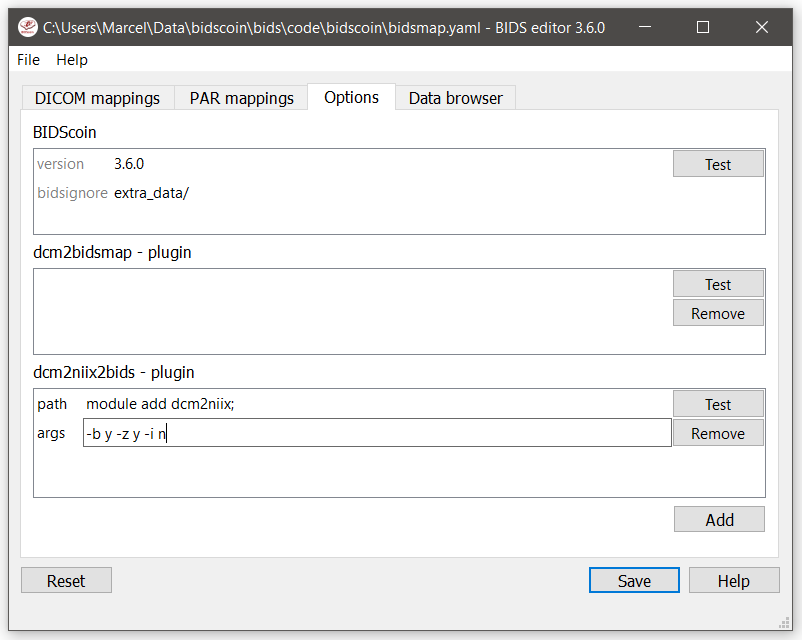
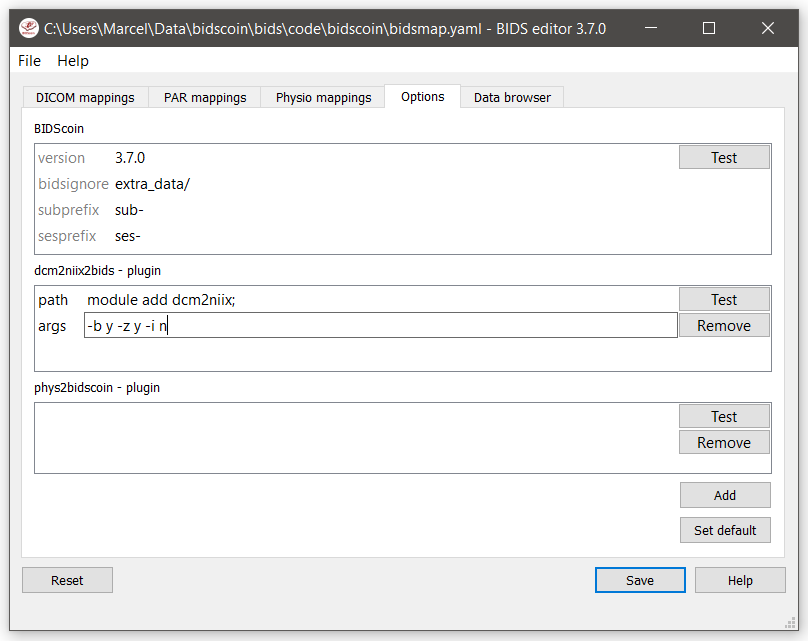
* Added multi-echo defacing * Updated documentation

diff --git a/bidscoin/medeface.py b/bidscoin/medeface.py
@@ -1,10 +1,11 @@
 #!/usr/bin/env python3
 """
-A wrapper around the 'pydeface' defacing tool (https://github.com/poldracklab/pydeface).
+A wrapper around the 'pydeface' defacing tool (https://github.com/poldracklab/pydeface) that computes
+a defacing mask on an echo-combined image and then applies it to each individual echo-image.
 
 This wrapper is fully BIDS-aware (a 'bidsapp') and writes BIDS compliant output
 
-For multi-echo data see `medeface`
+For single-echo data see `deface`
 """
 
 import os
@@ -15,6 +16,8 @@ import logging
 import pandas as pd
 import pydeface.utils as pdu
 import drmaa
+import nibabel as nib
+import numpy as np
 from pathlib import Path
 try:
     from bidscoin import bidscoin, bids
@@ -22,11 +25,11 @@ except ImportError:
     import bidscoin, bids             # This should work if bidscoin was not pip-installed
 
 
-def deface(bidsdir: str, pattern: str, subjects: list, output: str, cluster: bool, nativespec: str, kwargs: dict):
+def medeface(bidsdir: str, pattern: str, subjects: list, output: str, cluster: bool, nativespec: str, kwargs: dict):
     """
 
-    :param bidsdir:     The bids-directory with the subject data
-    :param pattern:     Globlike search pattern (relative to the subject/session folder) to select the images that need to be defaced, e.g. 'anat/*_T1w*'
+    :param bidsdir:     The bids-directory with the (multi-echo) subject data
+    :param pattern:     Globlike search pattern (relative to the subject/session folder) to select the echo-images that need to be defaced, e.g. 'anat/*_T1w*'
     :param subjects:    List of sub-# identifiers to be processed (the sub- prefix can be left out). If not specified then all sub-folders in the bidsfolder will be processed
     :param output:      Determines where the defaced images are saved. It can be the name of a BIDS datatype folder, such as 'anat', or of the derivatives folder, i.e. 'derivatives'. If output is left empty then the original images are replaced by the defaced images
     :param cluster:     Flag to submit the deface jobs to the high-performance compute (HPC) cluster
@@ -41,8 +44,8 @@ def deface(bidsdir: str, pattern: str, subjects: list, output: str, cluster: boo
     # Start logging
     bidscoin.setup_logging(bidsdir/'code'/'bidscoin'/'deface.log')
     LOGGER.info('')
-    LOGGER.info('------------ START deface ------------')
-    LOGGER.info(f">>> deface bidsfolder={bidsdir} pattern={pattern} subjects={subjects} output={output}"
+    LOGGER.info('------------ START multi-echo deface ----------')
+    LOGGER.info(f">>> medeface bidsfolder={bidsdir} pattern={pattern} subjects={subjects} output={output}"
                 f" cluster={cluster} nativespec={nativespec} {kwargs}")
 
     # Get the list of subjects
@@ -54,7 +57,7 @@ def deface(bidsdir: str, pattern: str, subjects: list, output: str, cluster: boo
         subjects = ['sub-' + subject.replace('^sub-', '') for subject in subjects]              # Make sure there is a "sub-" prefix
         subjects = [bidsdir/subject for subject in subjects if (bidsdir/subject).is_dir()]
 
-    # Prepare the HPC job submission
+    # Prepare the HPC pydeface job submission
     with drmaa.Session() as pbatch:
         if cluster:
             jt                     = pbatch.createJobTemplate()
@@ -63,7 +66,7 @@ def deface(bidsdir: str, pattern: str, subjects: list, output: str, cluster: boo
             jt.nativeSpecification = nativespec
             jt.joinFiles           = True
 
-        # Loop over bids subject/session-directories
+        # Loop over bids subject/session-directories to first get all the echo-combined deface masks
         for n, subject in enumerate(subjects, 1):
 
             sessions = bidscoin.lsdirs(subject, 'ses-*')
@@ -77,34 +80,73 @@ def deface(bidsdir: str, pattern: str, subjects: list, output: str, cluster: boo
                 datasource     = bids.DataSource(session/'dum.my')
                 sub_id, ses_id = datasource.subid_sesid()
 
-                # Search for images that need to be defaced
-                for match in sorted([match for match in session.glob(pattern) if '.nii' in match.suffixes]):
+                # Read the echo-images that need to be defaced
+                echofiles = sorted([match for match in session.glob(pattern) if '.nii' in match.suffixes])
+                LOGGER.info(f'Loading ME-files: {echofiles}')
+                echos = [nib.load(echofile) for echofile in echofiles]
+
+                # Create a temporary echo-combined image
+                tmpfile  = session/'tmp_echocombined_deface.nii'
+                combined = nib.Nifti1Image(np.average([echo.get_fdata() for echo in echos]), echos[0].affine, echos[0].header)
+                combined.to_filename(tmpfile)
+
+                # Deface the echo-combined image
+                LOGGER.info(f"Creating a deface-mask from the echo-combined image: {tmpfile}")
+                if cluster:
+                    jt.args = [str(tmpfile), '--outfile', str(tmpfile), '--force'] + [item for pair in [[f"--{key}", val] for key,val in kwargs.items()] for item in pair]
+                    jt.jobName = f"pydeface_{sub_id}_{ses_id}"
+                    jobid = pbatch.runJob(jt)
+                    LOGGER.info(f"Your deface job has been submitted with ID: {jobid}")
+                else:
+                    pdu.deface_image(str(tmpfile), str(tmpfile), force=True, forcecleanup=True, **kwargs)
+
+        if cluster:
+            LOGGER.info('Waiting for the deface jobs to finish...')
+            pbatch.synchronize(jobIds=[pbatch.JOB_IDS_SESSION_ALL], timeout=pbatch.TIMEOUT_WAIT_FOREVER,
+                               dispose=True)
+            pbatch.deleteJobTemplate(jt)
+
+        # Loop again over bids subject/session-directories to apply the deface masks and write meta-data
+        for n, subject in enumerate(subjects, 1):
+
+            sessions = bidscoin.lsdirs(subject, 'ses-*')
+            if not sessions:
+                sessions = [subject]
+            for session in sessions:
+
+                LOGGER.info('--------------------------------------')
+                LOGGER.info(f"Processing ({n}/{len(subjects)}): {session}")
+
+                datasource     = bids.DataSource(session/'dum.my')
+                sub_id, ses_id = datasource.subid_sesid()
+
+                # Read the temporary defacemask and the echo-images that need to be defaced
+                tmpfile    = session/'tmp_echocombined_deface.nii'
+                defacemask = nib.load(tmpfile).get_fdata() != 0     # The original defacemask is saved in a temporary folder so it may be deleted -> use the defaced image to infer the mask
+                tmpfile.unlink()
+                for echofile in sorted([match for match in session.glob(pattern) if '.nii' in match.suffixes]):
 
                     # Construct the output filename and relative path name (used in BIDS)
-                    match_rel = match.relative_to(session).as_posix()
+                    echofile_rel = echofile.relative_to(session).as_posix()
                     if not output:
-                        outputfile     = match
-                        outputfile_rel = match_rel
+                        outputfile     = echofile
+                        outputfile_rel = echofile_rel
                     elif output == 'derivatives':
-                        outputfile     = bidsdir/'derivatives'/'deface'/sub_id/ses_id/match.parent.name/match.name
+                        outputfile     = bidsdir/'derivatives'/'deface'/sub_id/ses_id/echofile.parent.name/echofile.name
                         outputfile_rel = outputfile.relative_to(bidsdir).as_posix()
                     else:
-                        outputfile     = session/output/match.name
+                        outputfile     = session/output/echofile.name
                         outputfile_rel = outputfile.relative_to(session).as_posix()
                     outputfile.parent.mkdir(parents=True, exist_ok=True)
 
-                    # Deface the image
-                    LOGGER.info(f"Defacing: {match_rel} -> {outputfile_rel}")
-                    if cluster:
-                        jt.args    = [str(match), '--outfile', str(outputfile), '--force'] + [item for pair in [[f"--{key}",val] for key,val in kwargs.items()] for item in pair]
-                        jt.jobName = f"pydeface_{sub_id}_{ses_id}"
-                        jobid      = pbatch.runJob(jt)
-                        LOGGER.info(f"Your deface job has been submitted with ID: {jobid}")
-                    else:
-                        pdu.deface_image(str(match), str(outputfile), force=True, forcecleanup=True, **kwargs)
+                    # Apply the defacemask
+                    LOGGER.info(f'Apply deface mask on: {echofile} -> {outputfile_rel}')
+                    echoimg   = nib.load(echofile)
+                    outputimg = nib.Nifti1Image(echoimg.get_fdata() * defacemask, echoimg.affine, echoimg.header)
+                    outputimg.to_filename(outputfile)
 
                     # Overwrite or add a json sidecar-file
-                    inputjson  = match.with_suffix('').with_suffix('.json')
+                    inputjson  = echofile.with_suffix('').with_suffix('.json')
                     outputjson = outputfile.with_suffix('').with_suffix('.json')
                     if inputjson.is_file() and inputjson != outputjson:
                         if outputjson.is_file():
@@ -129,7 +171,7 @@ def deface(bidsdir: str, pattern: str, subjects: list, output: str, cluster: boo
                             intendedfor = fmap_data['IntendedFor']
                             if type(intendedfor)==str:
                                 intendedfor = [intendedfor]
-                            if match_rel in intendedfor:
+                            if echofile_rel in intendedfor:
                                 LOGGER.info(f"Updating 'IntendedFor' to {outputfile_rel} in {fmap}")
                                 fmap_data['IntendedFor'] = intendedfor + [outputfile_rel]
                                 with fmap.open('w') as fmap_fid:
@@ -145,14 +187,9 @@ def deface(bidsdir: str, pattern: str, subjects: list, output: str, cluster: boo
                     if output and output+'/' not in bidsignore and scans_tsv.is_file():
                         LOGGER.info(f"Adding {outputfile_rel} to {scans_tsv}")
                         scans_table                     = pd.read_csv(scans_tsv, sep='\t', index_col='filename')
-                        scans_table.loc[outputfile_rel] = scans_table.loc[match_rel]
+                        scans_table.loc[outputfile_rel] = scans_table.loc[echofile_rel]
                         scans_table.sort_values(by=['acq_time','filename'], inplace=True)
                         scans_table.to_csv(scans_tsv, sep='\t', encoding='utf-8')
-
-        if cluster:
-            LOGGER.info('Waiting for the deface jobs to finish...')
-            pbatch.synchronize(jobIds=[pbatch.JOB_IDS_SESSION_ALL], timeout=pbatch.TIMEOUT_WAIT_FOREVER, dispose=True)
-            pbatch.deleteJobTemplate(jt)
 
     LOGGER.info('-------------- FINISHED! -------------')
     LOGGER.info('')
@@ -166,12 +203,12 @@ def main():
     parser = argparse.ArgumentParser(formatter_class=CustomFormatter,
                                      description=__doc__,
                                      epilog='examples:\n'
-                                            '  deface /project/3017065.01/bids anat/*_T1w*\n'
-                                            '  deface /project/3017065.01/bids anat/*_T1w* -p 001 003 -o derivatives\n'
-                                            '  deface /project/3017065.01/bids anat/*_T1w* -c -n "-l walltime=00:60:00,mem=4gb"\n'
-                                            '  deface /project/3017065.01/bids anat/*_T1w* -a \'{"cost": "corratio", "verbose": ""}\'\n ')
+                                            '  medeface /project/3017065.01/bids anat/*_T1w*\n'
+                                            '  medeface /project/3017065.01/bids anat/*_T1w* -p 001 003 -o derivatives\n'
+                                            '  medeface /project/3017065.01/bids anat/*_T1w* -c -n "-l walltime=00:60:00,mem=4gb"\n'
+                                            '  medeface /project/3017065.01/bids anat/*_T1w* -a \'{"cost": "corratio", "verbose": ""}\'\n ')
     parser.add_argument('bidsfolder', type=str,
-                        help='The bids-directory with the subject data')
+                        help='The bids-directory with the (multi-echo) subject data')
     parser.add_argument('pattern', type=str,
                         help="Globlike search pattern (relative to the subject/session folder) to select the images that need to be defaced, e.g. 'anat/*_T1w*'")
     parser.add_argument('-p','--participant_label', type=str, nargs='+',
@@ -186,13 +223,13 @@ def main():
                         help='Additional arguments (in dict/json-style) that are passed to pydeface. See examples for usage', type=json.loads, default={})
     args = parser.parse_args()
 
-    deface(bidsdir    = args.bidsfolder,
-           pattern    = args.pattern,
-           subjects   = args.participant_label,
-           output     = args.output,
-           cluster    = args.cluster,
-           nativespec = args.nativespec,
-           kwargs     = args.args)
+    medeface(bidsdir    = args.bidsfolder,
+             pattern    = args.pattern,
+             subjects   = args.participant_label,
+             output     = args.output,
+             cluster    = args.cluster,
+             nativespec = args.nativespec,
+             kwargs     = args.args)
 
 
 if __name__ == '__main__':

diff --git a/docs/tutorial.rst b/docs/tutorial.rst
@@ -45,7 +45,7 @@ Let's begin with inspecting this new raw data collection:
 
    $ bidsmapper raw bids
 
-- In the GUI that appears, edit the task and acquisition labels of the functional scans into something more readable, e.g. ``task-Reward`` for the ``acq-mb8`` scans and "task-Stop" for the ``acq-mb3me3 scans``. Also make the name of the T1 scan more user friendly, e.g. by naming the aquisition label simply ``acq-mprage``.
+- In the GUI that appears at the end, edit the task and acquisition labels of the functional scans into something more readable, e.g. ``task-Reward`` for the ``acq-mb8`` scans and ``task-Stop`` for the ``acq-mb3me3 scans``. Also make the name of the T1 scan more user friendly, e.g. by naming the acquisition label simply ``acq-mprage``.
 - Add a search pattern to the ``IntendedFor`` field such that the first fieldmap will select your ``Reward`` runs and the second fieldmap your ``Stop`` runs (see the `bidseditor <workflow.html#step-1b-running-the-bidseditor>`__ fieldmap notes for more details)
 - Since for this dataset we only have one session per subject, remove the session label (and note how the output names simplify, omitting the session subfolders and labels)
 - When all done, go to the ``Options`` tab and change the ``dcm2niix`` settings to get non-zipped nifti output data (i.e. ``*.nii`` instead of ``*.nii.gz``). Test the tool to see if it can run and, as a final step, save your bidsmap. You can always go back later to change any of your edits by running the `bidseditor <workflow.html#step-1b-running-the-bidseditor>`__ command line tool directly. Try that.
@@ -63,7 +63,7 @@ Let's begin with inspecting this new raw data collection:
 4. **Finishing up.** Now that you have converted the data to BIDS, you still need to do some manual work to make it fully ready for data analysis and sharing
 
 - Combine the echos using the `echocombine <finalizing.html#multi-echo-combination>`__ tool, such that the individual echo images are replaced by the echo-combined image
-- Deface the anatomical scans using the `echocombine <finalizing.html#multi-echo-combination>`__ tool. This will take a while, but will obviously not work well for our phantom dataset. Therefore store the 'defaced' output in the ``derivatives`` folder (instead of e.g. overwriting the existing images)
+- Deface the anatomical scans using the `deface <finalizing.html#defacing>`__ tool. This will take a while, but will obviously not work well for our phantom dataset. Therefore store the 'defaced' output in the ``derivatives`` folder (instead of e.g. overwriting the existing images)
 - Inspect the ``bids/participants.tsv`` file and decide if it is ok.
 - Update the ``dataset_description.json`` and ``README`` files in your ``bids`` folder
 - As a final step, run the `bids-validator <https://bids-standard.github.io/bids-validator/>`__ on your ``~/bids_tutorial`` folder. Are you completely ready now to share this dataset?

diff --git a/docs/preparation.rst b/docs/preparation.rst
@@ -4,7 +4,7 @@ Data preparation
 Required source data structure
 ------------------------------
 
-BIDScoin requires that the source data input folder is organized according to a ``sub-identifier/[ses-identifier]/data`` structure (the ``ses-identifier`` subfolder is optional). The data folder can have various formats, as shown in the following examples:
+BIDScoin requires that the source data input folder is organized according to a ``subject/[session]/data`` structure (the ``session`` subfolder is optional). The data folder can have various formats, as shown in the following examples:
 
 1. **A 'seriesfolder' organization**. A series folder contains a single data type and are typically acquired in a single run -- a.k.a 'Series' in DICOM speak. This is how users receive their data from the (Siemens) scanners at the `DCCN <https://www.ru.nl/donders/>`__::
 
@@ -108,7 +108,7 @@ BIDScoin requires that the source data input folder is organized according to a 
     [..]
 
 .. note::
-   You can store your session data in any of the above data organizations as zipped (``.zip``) or tarzipped (e.g. ``.tar.gz``) archive files. BIDScoin `workflow tools <workflow.html>`_ will automatically unpack/unzip those archive files in a temporary folder and then process your session`` data`` from there. For flat/DICOMDIR data, BIDScoin tools will automatically run `dicomsort <#dicomsort>`__ in a temporary folder to sort them in seriesfolders. BIDScoin tools that work from a temporary folder has the downsde of getting a speed penalty.
+   You can store your session data in any of the above data organizations as zipped (``.zip``) or tarzipped (e.g. ``.tar.gz``) archive files. BIDScoin `workflow tools <workflow.html>`_ will automatically unpack/unzip those archive files in a temporary folder and then process your session data from there. For flat/DICOMDIR data, BIDScoin tools will automatically run `dicomsort <#dicomsort>`__ in a temporary folder to sort them in seriesfolders. BIDScoin tools that work from a temporary folder has the downsde of getting a speed penalty.
 
 .. tip::
    BIDScoin will skip (linux-style hidden) files and folders starting with a `.` (dot) character. You can use this feature to flexibly omit subjects, sessions or runs from your bids repository, for instance when you restarted a MRI scan because something went wrong with the stimulus presentation and you don't want that data to be converted and enumerated as `run-1`, `run-2`.

diff --git a/docs/advanced.rst b/docs/advanced.rst
@@ -85,7 +85,7 @@ Editing the template
 Plugins
 -------
 
-BIDScoin uses a flexible plugin architecture to map and convert your source data to BIDS. The bidsmapper and bidscoiner tools loop over the subjects/sessions in your source directory and then call the plugins listed in the bidsmap to do the actual work. As can be seen in the API code snippet below, the plugins can contain optional functions for interacting with their dataformat and for mapping and converting the source data to BIDS. See also the default ``dcm2bidsmap`` and ``dcm2niix2bids`` plugins for reference implementation.
+BIDScoin uses a flexible plugin architecture to map and convert your source data to BIDS. The bidsmapper and bidscoiner tools loop over the subjects/sessions in your source directory and then call the plugins listed in the bidsmap to do the actual work. As can be seen in the API code snippet below, the plugins can contain optional functions for interacting with their dataformat and for mapping and converting the source data to BIDS. See also the default ``dcm2niix2bids`` and ``phys2bidscoin`` plugins for reference implementation.
 
 .. note:: Plugins can be listed, installed and uninstalled using the ``bidscoin`` command-line utility.
 
@@ -165,7 +165,7 @@ BIDScoin uses a flexible plugin architecture to map and convert your source data
 
        bidsmap_new/old['Options']['plugins']['README']
 
-       See also the dcm2bidsmap plugin for reference implementation
+       See also the dcm2niix2bids plugin for reference implementation
 
        :param session:     The full-path name of the subject/session raw data source folder
        :param bidsmap_new: The study bidsmap that we are building

diff --git a/docs/options.rst b/docs/options.rst
@@ -1,7 +1,7 @@
 Options
 =======
 
-BIDScoin has different options and settings (see below) that can be adjusted per study bidsmap or, when you want to customize the default, edited in the `template bidsmap <bidsmap.html>`__. There are seperate settings for BIDScoin and for the individual plugins that can be edited by double clicking. Installed plugins can be removed or added to extend BIDScoin's functionality.
+BIDScoin has different options and settings (see below) that can be adjusted per study bidsmap or, when you want to customize the default, edited in the `template bidsmap <bidsmap.html>`__. There are separate settings for BIDScoin and for the individual plugins that can be edited by double clicking. Installed plugins can be removed or added to extend BIDScoin's functionality.
 
 .. figure:: ./_static/bidseditor_options.png
    :scale: 75%
@@ -15,11 +15,6 @@ These setting can be used by all the BIDScoin tools:
 
 - ``version``: Used to check for version conflicts (should correspond with the version in ../bidscoin/version.txt)
 - ``bidsignore``: Semicolon-separated list of datatypes that you want to include but that do not pass a BIDS `validation test <https://github.com/bids-standard/bids-validator#bidsignore>`__. Example: ``bidsignore: extra_data/;rTMS/;myfile.txt;yourfile.csv``
-
-dcm2bidsmap - plugin
---------------------
-
-The default bidsmapper plugin that builds a bidsmap from DICOM and PAR/REC source data. There are no settings for this plugin
 
 dcm2niix2bids - plugin
 ----------------------

diff --git a/docs/CHANGELOG.md b/docs/CHANGELOG.md
@@ -11,11 +11,13 @@ All notable changes to this project will be documented in this file. The format 
 - Regular expressions for extracting filesystem property substrings
 - A plugin for phys2bids to convert physiological data
 - Option to install extra packages, such as phys2bids
+- Added a multi-echo deface function `medeface` that uses the same defacemask for all echo-images
 
 ### Changed
 - Plugins should now have a `is_sourcefile` and a `get_attribute` function and have a simpler API (-> DataSource class)
 - The intricate filtering of the `nrfiles` property by the other filesystem properties has been removed and is now a pure/unfiltered file-system property
 - The `<<SourceFilePath>>` keyword has been replaced by a more flexible filepath regular expression
+- The dcm2bidsmap and the dcm2niix2bids plugins have been merged
 
 ## [3.6.3] - 2021-06-14
 
